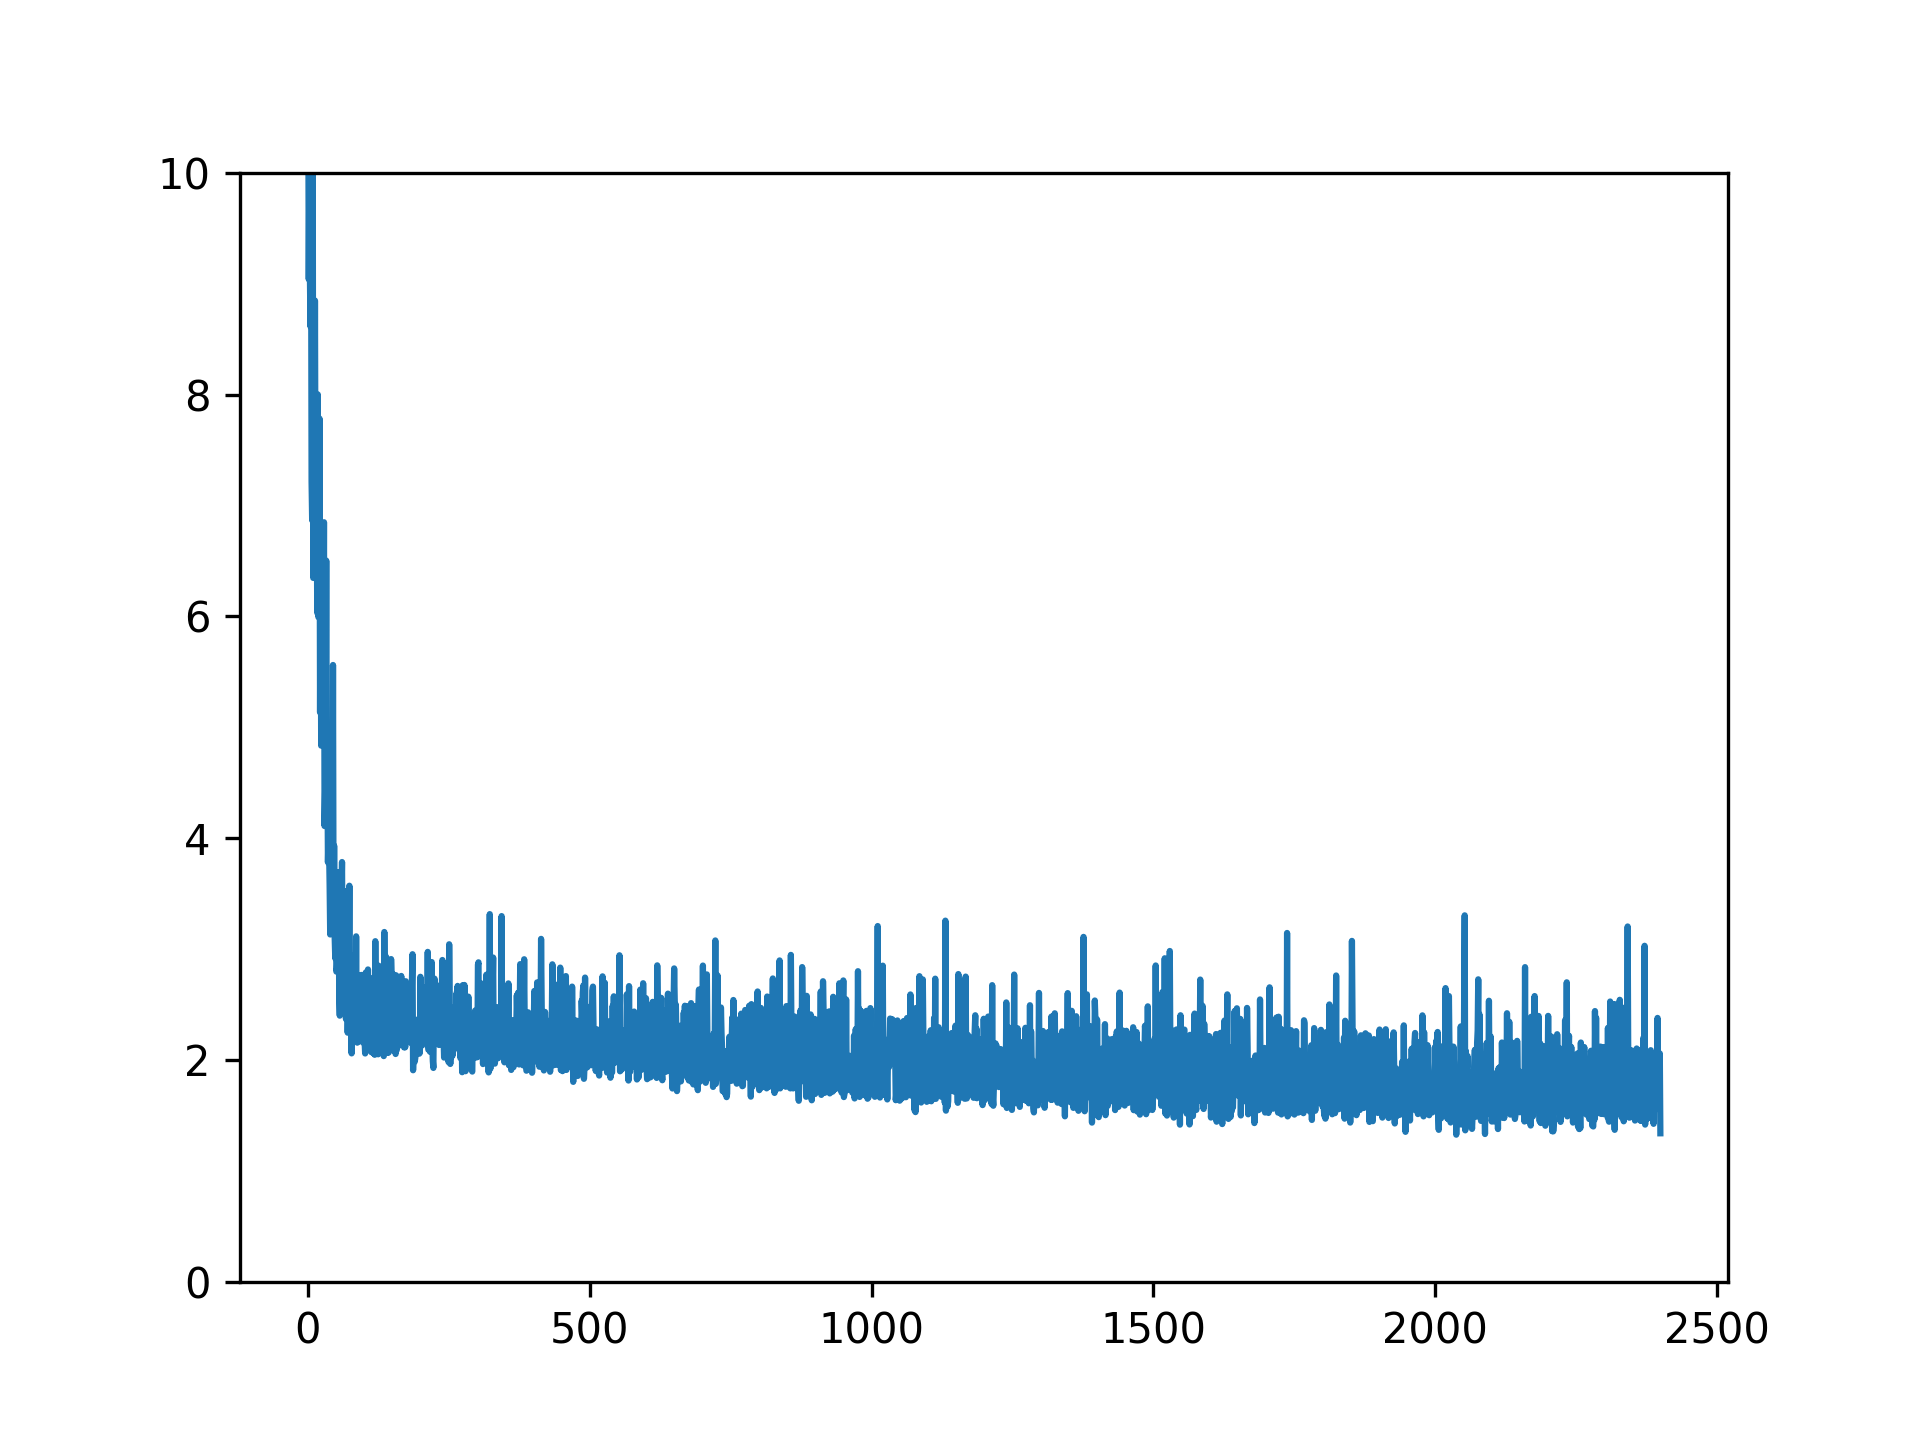
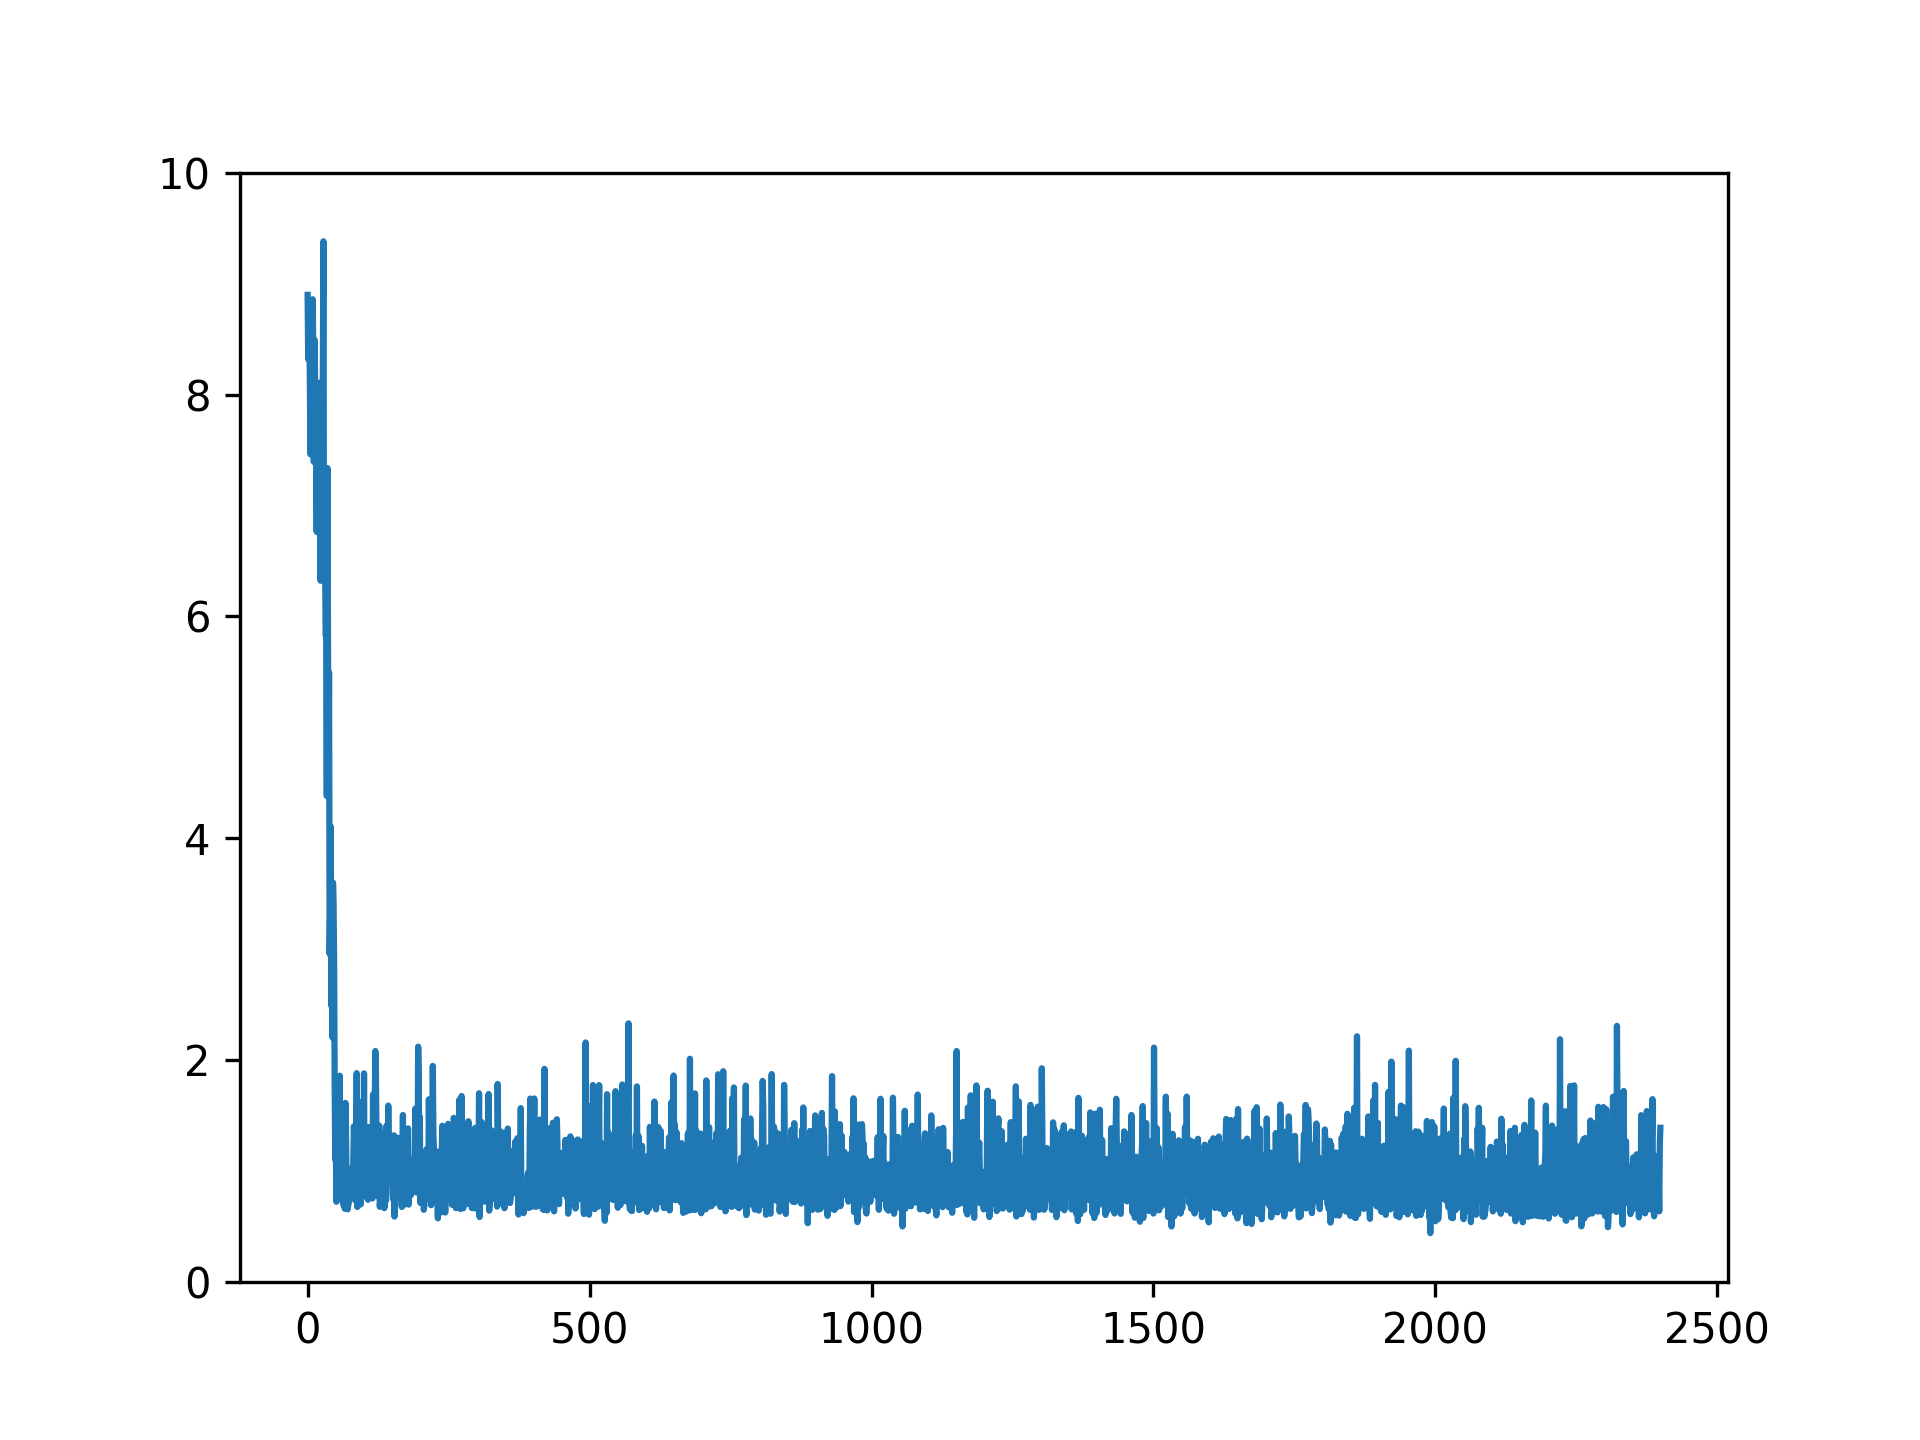
add weights to additive model

Changed region(s): [[0.1562, 0.125, 0.875, 0.875]]

diff --git a/dtmgp/models/simple_dtmgp_additive_variational.py b/dtmgp/models/simple_dtmgp_additive_variational.py
@@ -20,90 +20,120 @@ class AdditiveDTMGP(nn.Module):
         super(AdditiveDTMGP, self).__init__()
 
         self.activation = activation
-        self.input_dim = input_dim
 
         #################################################################################
-        ## 1st layer of DGP: input:[n, input_dim] size tensor, output:[n, w1] size tensor
+        ## 1st layer of DGP: input:[...,n, input_dim] size tensor, output:[...,n, w1] size tensor
         #################################################################################
-        # return [n, m1] size tensor for [n, input_dim] size input and [m1, input_dim] size sparse grid 
-        self.tmk1 = tmgp_additive(in_features=input_dim, n_level=6, design_class=design_class, kernel=kernel)        
+        # return [input_dim,...,n, m1] size tensor for [...,n, input_dim] size input and [m1, 1] size design points
+        self.tmk1 = tmgp_additive(in_features=input_dim, n_level=5, design_class=design_class, kernel=kernel)        
         m1 = self.tmk1.out_features
         w1 = 8
-        # return [n, w1] size tensor for [n, m1] size input and [m1, w1] size weights
-        self.fc1 = nn.ModuleList([
-            LinearReparameterization(
-                in_features=m1,
-                out_features=w1,
-                prior_mean=prior_mu,
-                prior_variance=prior_sigma,
-                posterior_mu_init=posterior_mu_init,
-                posterior_rho_init=posterior_rho_init,
-                bias=True,
-            ) for _ in range(input_dim)
-        ])
-    
+        # return [input_dim,...,n, w1] size tensor for [input_dim,...,n, m1] size input and [m1, w1] size weights
+        self.fc1 = LinearReparameterization(
+            in_features=m1,
+            out_features=w1,
+            prior_mean=prior_mu,
+            prior_variance=prior_sigma,
+            posterior_mu_init=posterior_mu_init,
+            posterior_rho_init=posterior_rho_init,
+            bias=True,
+        )
+        # move axis of input: [input_dim,...,n, w1] --> [...,n, w1, input_dim], use `x.moveaxis(0,-1)`
+        # return [...,n, w1,1] size tensor for [...,n, w1, input_dim] size input and [input_dim, 1] size weights
+        self.fc_add1 = LinearReparameterization(
+            in_features=input_dim,
+            out_features=1,
+            prior_mean=prior_mu,
+            prior_variance=prior_sigma,
+            posterior_mu_init=posterior_mu_init,
+            posterior_rho_init=posterior_rho_init,
+            bias=True,
+        )
+        # squeeze input: [...,n, w1,1] --> [...,n, w1], use `x.squeeze(dim=-1)`
+
 
         #################################################################################
-        ## 2nd layer of DGP: input:[n, w1] size tensor, output:[n, w2] size tensor
+        ## 2nd layer of DGP: input:[...,n, w1] size tensor, output:[...,n, w2] size tensor
         #################################################################################
-        # return [n, m2] size tensor for [n, w1] size input and [m2, w1] size sparse grid
+        # return [w1,..., n, m2] size tensor for [..., n, w1] size input and [m2, 1] size design points
         self.tmk2 = tmgp_additive(in_features=w1, n_level=6, design_class=design_class, kernel=kernel)
         m2 = self.tmk2.out_features
-        w2 = 8
-        # return [n, w2] size tensor for [n, m2] size input and [m2, w2] size weights
-        self.fc2 = nn.ModuleList([
-            LinearReparameterization(
-                in_features=m2,
-                out_features=w2,
-                prior_mean=prior_mu,
-                prior_variance=prior_sigma,
-                posterior_mu_init=posterior_mu_init,
-                posterior_rho_init=posterior_rho_init,
-                bias=True,
-            ) for _ in range(w1)
-        ])
-    
+        w2 = 10
+        # return [w1,...,n, w2] size tensor for [w1,..., n, m2] size input and [m2, w2] size weights
+        self.fc2 = LinearReparameterization(
+            in_features=m2,
+            out_features=w2,
+            prior_mean=prior_mu,
+            prior_variance=prior_sigma,
+            posterior_mu_init=posterior_mu_init,
+            posterior_rho_init=posterior_rho_init,
+            bias=True,
+        )
+        # move axis of input: [w1,...,n, w2] --> [...,n, w2, w1], use `x.moveaxis(0,-1)`
+        # return [...,n, w2,1] size tensor for [...,n, w2, w1] size input and [w1, 1] size weights
+        self.fc_add2 = LinearReparameterization(
+            in_features=w1,
+            out_features=1,
+            prior_mean=prior_mu,
+            prior_variance=prior_sigma,
+            posterior_mu_init=posterior_mu_init,
+            posterior_rho_init=posterior_rho_init,
+            bias=True,
+        )
+        # squeeze input: [...,n, w2,1] --> [...,n, w2], use `x.squeeze(dim=-1)`
+
 
         #################################################################################
-        ## 3rd layer of DGP: input:[n, w2] size tensor, output:[n, w3] size tensor
+        ## 3rd layer of DGP: input:[...,n, w2] size tensor, output:[...,n, w3] size tensor
         #################################################################################
-        # return [n, m3] size tensor for [n, w2] size input and [m3, w2] size sparse grid
+        # return [w2,...,n, m3] size tensor for [...,n, w2] size input and [m3, 1] size design points
         self.tmk3 = tmgp_additive(in_features=w2, n_level=6, design_class=design_class, kernel=kernel)
         m3 = self.tmk3.out_features
         w3 = output_dim
-        # return [n, w3] size tensor for [n, m3] size input and [m3, w3] size weights
-        self.fc3 = nn.ModuleList([
-            LinearReparameterization(
-                in_features=m3,
-                out_features=w3,
-                prior_mean=prior_mu,
-                prior_variance=prior_sigma,
-                posterior_mu_init=posterior_mu_init,
-                posterior_rho_init=posterior_rho_init,
-                bias=True,
-            ) for _ in range(w2)
-        ])
-
+        # return [w2,...,n, w3] size tensor for [w2,...,n, m3] size input and [m3, w3] size weights
+        self.fc3 = LinearReparameterization(
+            in_features=m3,
+            out_features=w3,
+            prior_mean=prior_mu,
+            prior_variance=prior_sigma,
+            posterior_mu_init=posterior_mu_init,
+            posterior_rho_init=posterior_rho_init,
+            bias=True,
+        )
+        # move axis of input: [w2,...,n, w3] --> [...,n, w3, w2], use `x.moveaxis(0,-1)`
+        # return [...,n, w3,1] size tensor for [...,n, w3, w2] size input and [w2, 1] size weights
+        self.fc_add3 = LinearReparameterization(
+            in_features=w2,
+            out_features=1,
+            prior_mean=prior_mu,
+            prior_variance=prior_sigma,
+            posterior_mu_init=posterior_mu_init,
+            posterior_rho_init=posterior_rho_init,
+            bias=True,
+        )
+        # squeeze input: [...,n, w3,1] --> [...,n, w3], use `x.squeeze(dim=-1)`
+    
+    
     def forward(self, x):
         kl_sum = 0
         
-        def sumup(input, fc, tmk):
-            outs_x = 0
-            outs_kl = 0
-            for i in range(len(fc)):
-                outs_x_ele, outs_kl_ele = fc[i]( tmk(input[...,i][...,None]) ) 
-                outs_x += outs_x_ele
-                outs_kl += outs_kl_ele
-            return outs_x, outs_kl
-        
-        x, kl = sumup(x, self.fc1, self.tmk1)
-        kl_sum += kl
+        x = self.tmk1(x)
+        x, _ = self.fc1(x)
+        x, kl = self.fc_add1(x.moveaxis(0,-1))
+        x = x.squeeze(dim=-1)
+        kl_sum += kl.squeeze(dim=-1)
 
-        x, kl = sumup(x, self.fc2, self.tmk2)
-        kl_sum += kl
+        x = self.tmk2(x)
+        x, _ = self.fc2(x)
+        x, kl = self.fc_add2(x.moveaxis(0,-1))
+        x = x.squeeze(dim=-1)
+        kl_sum += kl.squeeze(dim=-1)
 
-        x, kl = sumup(x, self.fc3, self.tmk3)
-        kl_sum += kl
+        x = self.tmk3(x)
+        x, _ = self.fc3(x)
+        x, kl = self.fc_add3(x.moveaxis(0,-1))
+        x = x.squeeze(dim=-1)
+        kl_sum += kl.squeeze(dim=-1)
 
         if self.activation is None:
             output = x
